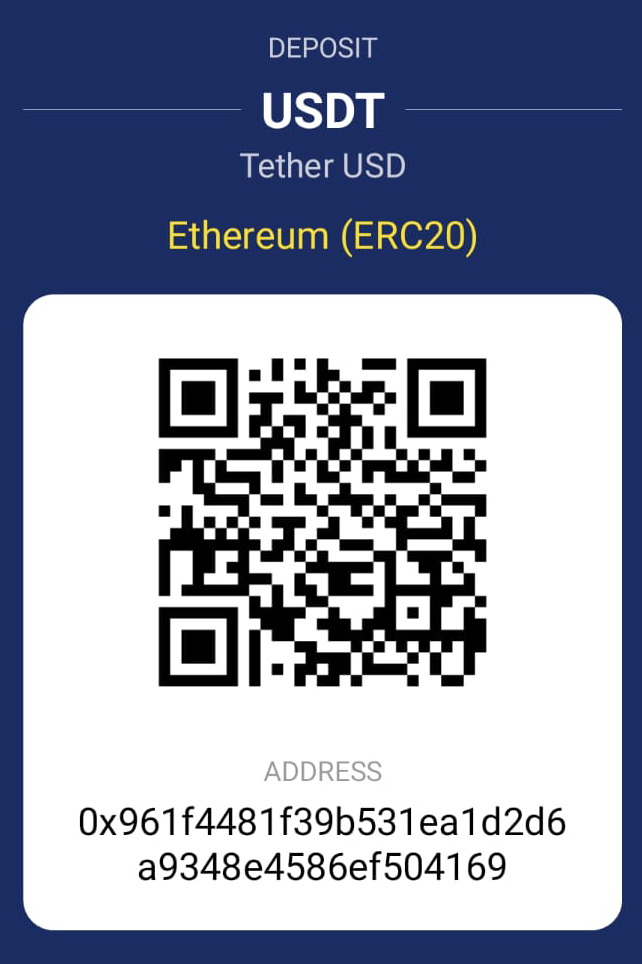
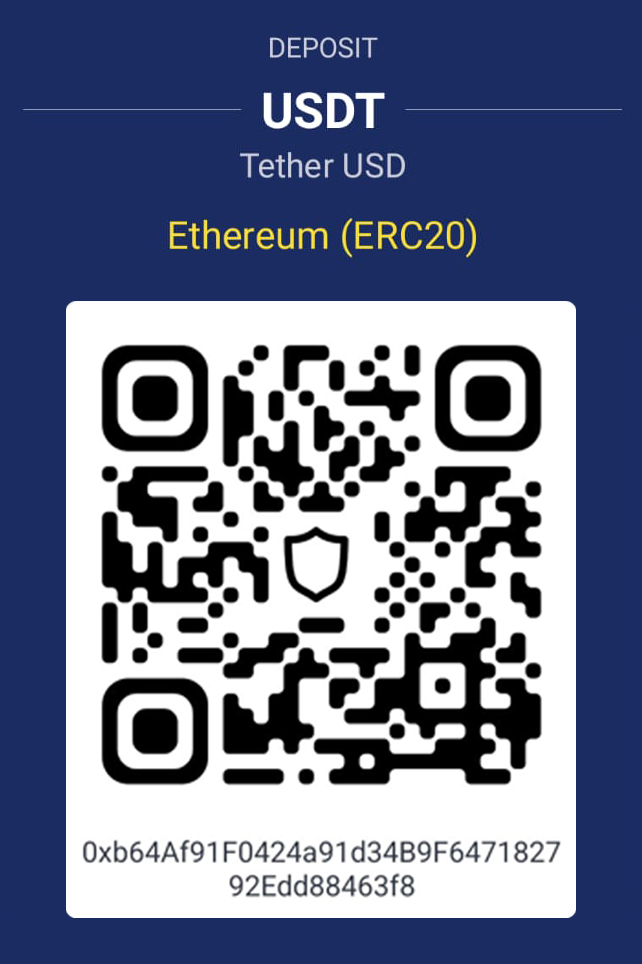
abc

diff --git a/resources/views/layouts/partial/_sidebar_admin.blade.php b/resources/views/layouts/partial/_sidebar_admin.blade.php
@@ -21,34 +21,34 @@
     <li class="nav-item {{ $route == 'admin.investment_index' ? 'active' : '' }} ">
         <a class="nav-link" href="{{ route('admin.investment_index') }}">
             <i class="icon-grid menu-icon"></i>
-            <span class="menu-title">PPS </span>
+            <span class="menu-title">VPS </span>
         </a>
     </li>
-    <li class="nav-item {{ $route == 'admin.ppsx_index' ? 'active' : '' }} ">
+    <li class="d-none nav-item {{ $route == 'admin.ppsx_index' ? 'active' : '' }} ">
         <a class="nav-link" href="{{ route('admin.ppsx_index') }}">
             <i class="icon-grid menu-icon"></i>
             <span class="menu-title">PPS NEXT</span>
         </a>
     </li>
-    <li class="nav-item {{ $route == 'admin.mps_index' ? 'active' : '' }} ">
+    <li class="d-none nav-item {{ $route == 'admin.mps_index' ? 'active' : '' }} ">
         <a class="nav-link" href="{{ route('admin.mps_index') }}">
             <i class="icon-grid menu-icon"></i>
             <span class="menu-title">MPS24 </span>
         </a>
     </li>
-    <li class="nav-item {{ $route == 'admin.mps36_index' ? 'active' : '' }} ">
+    <li class="d-none nav-item {{ $route == 'admin.mps36_index' ? 'active' : '' }} ">
         <a class="nav-link" href="{{ route('admin.mps36_index') }}">
             <i class="icon-grid menu-icon"></i>
             <span class="menu-title">MPS36 </span>
         </a>
     </li>
-    <li class="nav-item {{ $route == 'admin.mps48_index' ? 'active' : '' }} ">
+    <li class="d-none nav-item {{ $route == 'admin.mps48_index' ? 'active' : '' }} ">
         <a class="nav-link" href="{{ route('admin.mps48_index') }}">
             <i class="icon-grid menu-icon"></i>
             <span class="menu-title">MPS48 </span>
         </a>
     </li>
-    <li class="nav-item {{ $route == 'admin.mps60_index' ? 'active' : '' }} ">
+    <li class="d-none nav-item {{ $route == 'admin.mps60_index' ? 'active' : '' }} ">
         <a class="nav-link" href="{{ route('admin.mps60_index') }}">
             <i class="icon-grid menu-icon"></i>
             <span class="menu-title">MPS60 </span>
@@ -71,13 +71,13 @@
                     <span class="menu-title">Generate 100 Payout Log</span>
                 </a>
             </li>
-            <li class="nav-item {{ $route == 'admin.ppsx_distribution' ? 'active' : '' }} ">
+            <li class=" d-none nav-item {{ $route == 'admin.ppsx_distribution' ? 'active' : '' }} ">
                 <a class="nav-link" href="{{ route('admin.ppsx_distribution') }}">
                     <i class="icon-grid menu-icon"></i>
                     <span class="menu-title">Generate Payout PPSX </span>
                 </a>
             </li>
-            <li class="nav-item {{ $route == 'admin.ppsx_distribution_log' ? 'active' : '' }} ">
+            <li class="d-none nav-item {{ $route == 'admin.ppsx_distribution_log' ? 'active' : '' }} ">
                 <a class="nav-link" href="{{ route('admin.ppsx_distribution_log') }}">
                     <i class="icon-grid menu-icon"></i>
                     <span class="menu-title">Generate Payout PPSX Log</span>
@@ -95,13 +95,13 @@
                     <span class="menu-title">Generate 300 Payout Log</span>
                 </a>
             </li> --}}
-            <li class="nav-item {{ $route == 'admin.mps24_distribution' ? 'active' : '' }} ">
+            <li class="d-none nav-item {{ $route == 'admin.mps24_distribution' ? 'active' : '' }} ">
                 <a class="nav-link" href="{{ route('admin.mps24_distribution') }}">
                     <i class="icon-grid menu-icon"></i>
                     <span class="menu-title">Generate Mps24 Payout </span>
                 </a>
             </li>
-            <li class="nav-item {{ $route == 'admin.mps24_distribution_log' ? 'active' : '' }} ">
+            <li class="d-none nav-item {{ $route == 'admin.mps24_distribution_log' ? 'active' : '' }} ">
                 <a class="nav-link" href="{{ route('admin.mps24_distribution_log') }}">
                     <i class="icon-grid menu-icon"></i>
                     <span class="menu-title">Generate Mps24 Payout Log</span>

diff --git a/resources/views/wallet/main_wallet_view.blade.php b/resources/views/wallet/main_wallet_view.blade.php
@@ -97,6 +97,7 @@
                                             Balance in Main Wallet
                                         </div>
                                         <div class="col-4 text-right">
+                                            <input type="text" class="sr-only" id="balance" name="balance" value="{{$balance}}">
                                             <span> {{ __('$') . substr(number_format($balance,4,".",""),0,-2) }}</span>
                                         </div>
                                     </div>
@@ -140,6 +141,9 @@
                                         <div class="col-md-12 text-left">
                                             <a href="javascript:" class="btn btn-primary {{ $is_disabled }}"
                                                 onclick="payment_request();">Request</a>
+                                                @if($balance < 10)
+                                                    <div class="text-danger">Minimum balance to make a request is $10</div>
+                                                @endif
                                         </div>
                                     </div>
                                     <div id="message" class="alert text-danger"></div>
@@ -167,6 +171,15 @@
         }
 
         function payment_request() {
+            var balance = $('#balance').val();
+            if(balance < 10){
+                Swal.fire({
+                    icon: 'error',
+                    title: 'Oops...',
+                    text: 'Insufficient Balance',
+                });
+                return false;
+            }
             var amount = $('#amount').val();
 
             if (amount == '') {
@@ -177,11 +190,19 @@
                 });
                 return false;
             }
-            if (amount >1000) {
+            if (amount >300) {
                 Swal.fire({
                     icon: 'error',
                     title: 'Oops...',
-                    text: 'Amount Must Not Exceed 1000$',
+                    text: 'Amount Must Not Exceed 300$',
+                });
+                return false;
+            }
+            if (amount <10) {
+                Swal.fire({
+                    icon: 'error',
+                    title: 'Oops...',
+                    text: 'Amount Must Be At Least 10$',
                 });
                 return false;
             }

diff --git a/app/Http/Controllers/Admin/InvestmentController.php b/app/Http/Controllers/Admin/InvestmentController.php
@@ -182,9 +182,8 @@ class InvestmentController extends Controller
             foreach ($investment as $key => $inv) {
 
                 $pos = 0;
-                if ($inv->amount < 2500) {$pos = 0.4;}
-                elseif ($inv->amount < 5000) {$pos = 0.6;}
-                else { $pos = 0.8;}
+                if ($inv->amount < 4000) {$pos = 0.5;}
+                else { $pos = 0.75;}
 
                 //date difference investment_date to today
                 $date1 = date_create($inv->investment_date);
@@ -259,10 +258,9 @@ class InvestmentController extends Controller
             $cnt = 0;
             foreach ($investment as $key => $inv) {
                 $pos = 0;
-                if ($inv->amount < 2500)
-                {$pos = 0.4;}
-                elseif ($inv->amount < 5000) {$pos = 0.6;}
-                else { $pos = 0.8;}
+                if ($inv->amount < 4000)
+                {$pos = 0.5;}
+                else { $pos = 0.75;}
                 //date difference investment_date to today
                 $date1 = date_create($inv->investment_date);
                 $date2 = date_create($today);

diff --git a/resources/views/admin/investment/investment_menu.blade.php b/resources/views/admin/investment/investment_menu.blade.php
@@ -11,7 +11,7 @@ if (str_contains($prefix, 'admin')) {
 
 @endphp
 <nav class="navbar navbar-expand-lg navbar-dark bg-transparent justify-content-between">
-<div class="title text-light">PPS</div>
+<div class="title text-light">VPS</div>
     <div class="btn-group">
         <button type="button" class="btn btn-outline-info ">
             <a class="text-light" href="javascript:;" onclick="swalMsg('This proposition has been discontinued');">New <span class="sr-only">(current)</span></a>

diff --git a/resources/views/investment/pay.blade.php b/resources/views/investment/pay.blade.php
@@ -37,7 +37,8 @@
     <script>
         function copy_to_clipboard() {
             /* Get the text field */
-            var copyText = '0x961f4481f39b531ea1d2d6a9348e4586ef504169';
+            // var copyText = '0x961f4481f39b531ea1d2d6a9348e4586ef504169';
+            var copyText = '0xb64Af91F0424a91d34B9F647182792Edd88463f8';
 
             /* Select the text field */
             //copyText.select();
